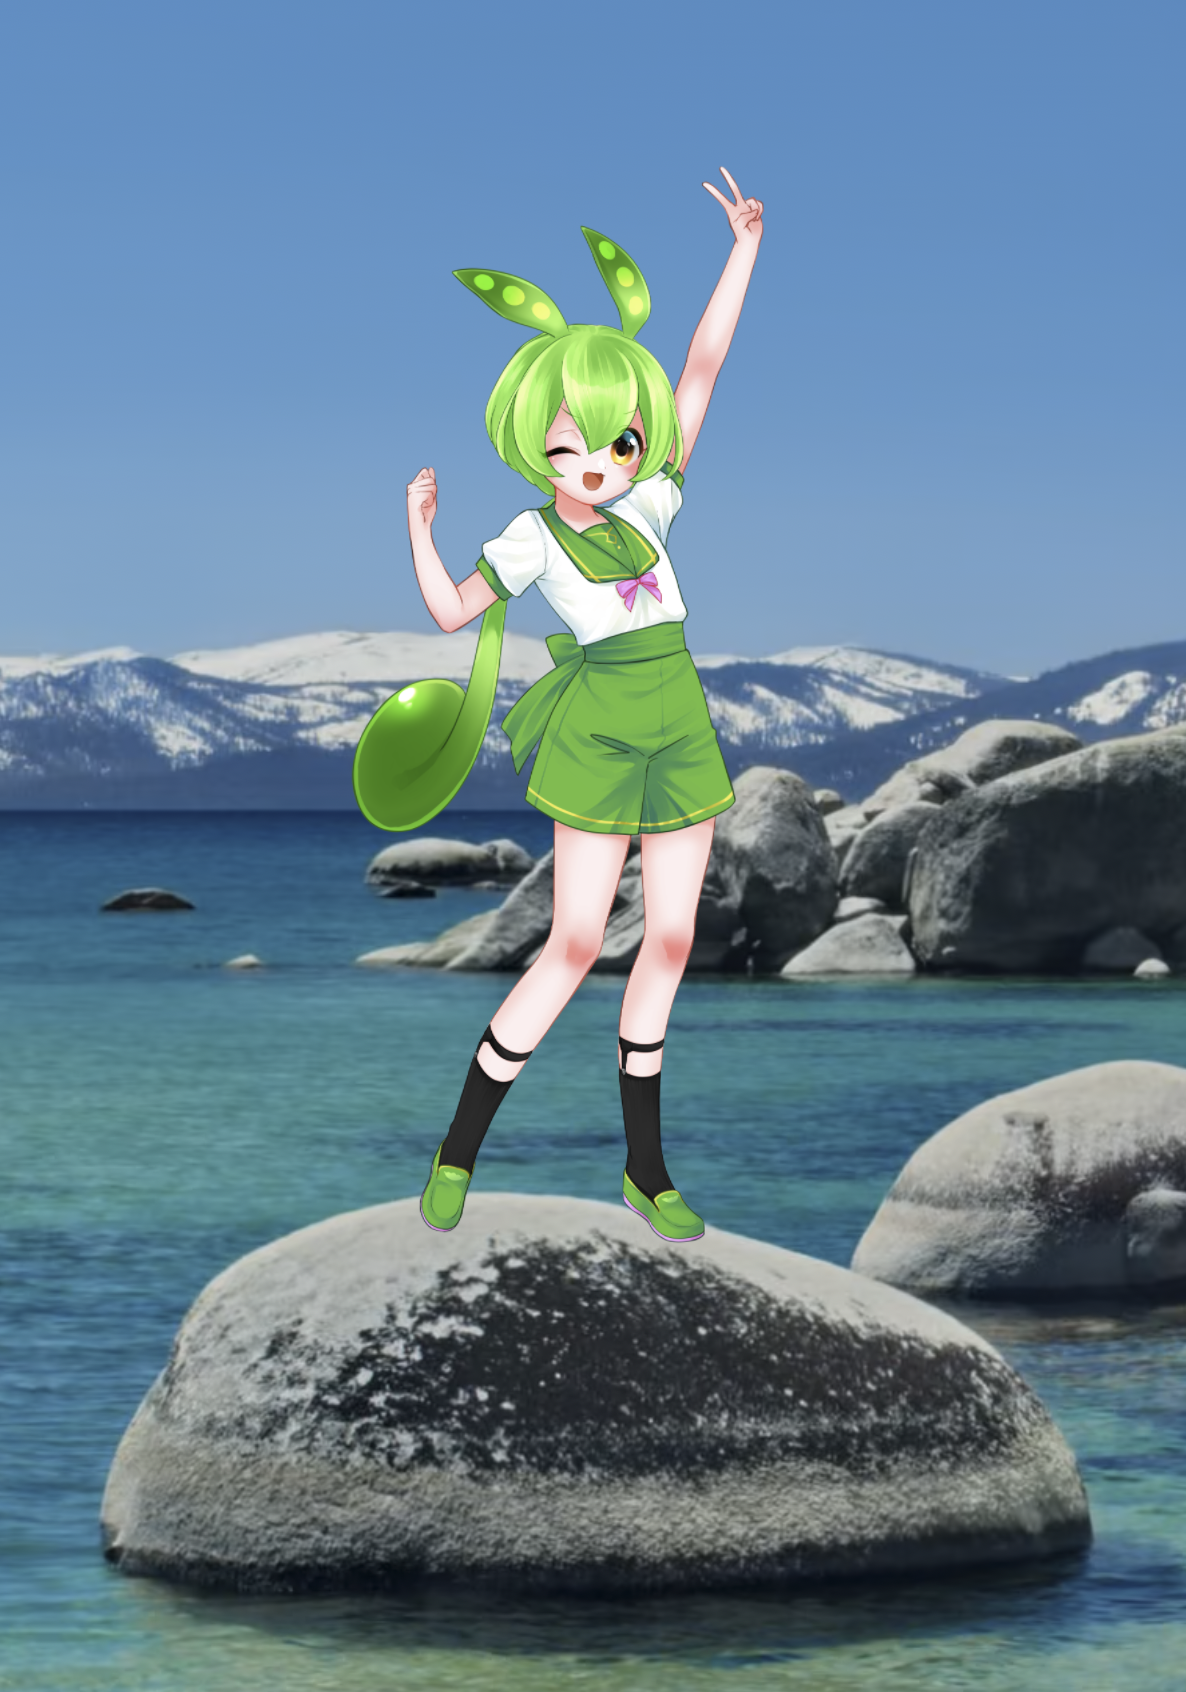
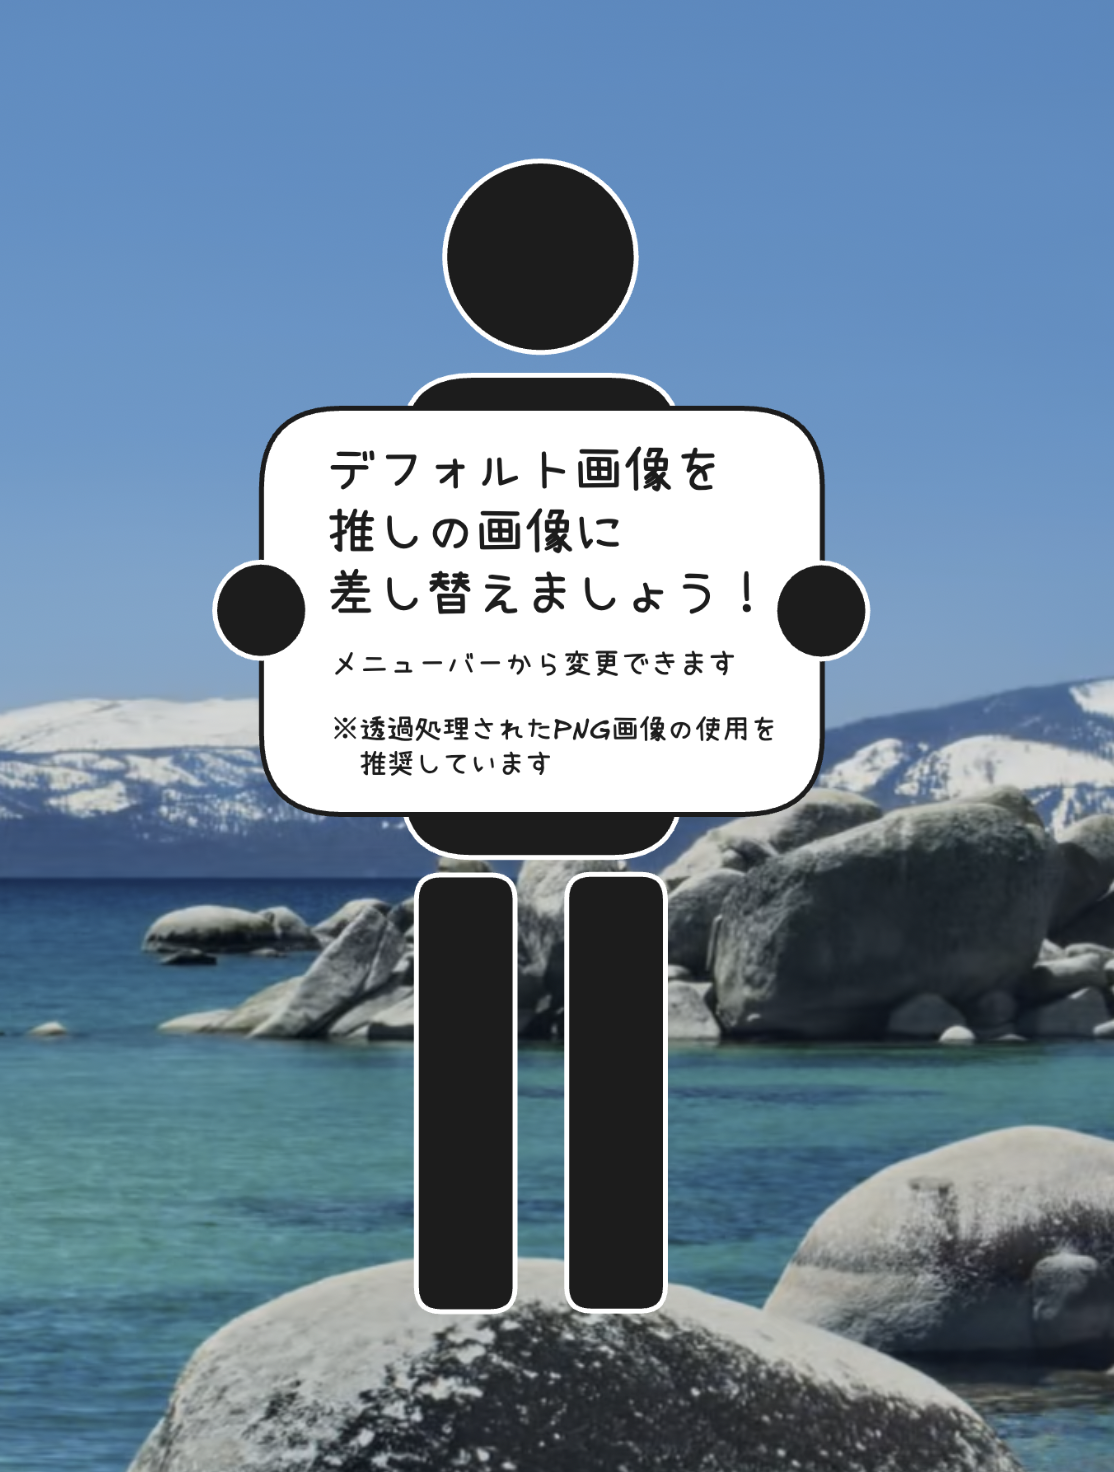
feat: デフォルト画像をシルエットに差し替え、スクリーンショットを更新
デフォルト画像をずんだもんからシルエット画像に変更し、
スクリーンショット3枚（デスクトップ表示・コンテキストメニュー・メニューバー）を更新。
READMEからずんだもん関連の記述を削除。

diff --git a/README.md b/README.md
@@ -9,6 +9,7 @@
 <p align="center">
   <img src="docs/screenshots/sobani-desktop.png" alt="デスクトップ表示" height="300">
   <img src="docs/screenshots/sobani-context-menu.png" alt="コンテキストメニュー" height="300">
+  <img src="docs/screenshots/sobani-menubar.png" alt="メニューバー" height="300">
 </p>
 
 ## 機能
@@ -68,7 +69,7 @@ brew upgrade --cask sobani
 ### はじめて起動する
 
 1. `Sobani.app` をダブルクリックで起動します
-2. デフォルトのずんだもん画像が画面中央に表示されます（前回終了時のウィンドウ状態が保存されている場合は、その位置・サイズ・画像で復元されます）
+2. デフォルトのプレースホルダー画像が画面中央に表示されます（前回終了時のウィンドウ状態が保存されている場合は、その位置・サイズ・画像で復元されます）
 3. メニューバーにアイコン（👤）が表示されます
 4. ウィンドウは常に最前面に表示され、すべての仮想デスクトップで表示されます
 
@@ -290,17 +291,6 @@ brew install swiftlint
 
 ビルドスクリプト（`./build.sh`）実行時に自動でリントチェックが行われます。Xcode でのビルド時にも Build Phase として実行されます。SwiftLint が未インストールの場合は警告を表示し、ビルドは続行します。
 
-## ずんだもんについて
-
-本アプリケーションのデフォルト画像には、**ずんだもん**の公式素材を使用しています。
-
-ずんだもんは**東北ずん子プロジェクト（SSS合同会社）**のキャラクターです。
-
-- [ずんだもんプロジェクト公式サイト](https://zunko.jp/)
-- [キャラクター利用ガイドライン](https://zunko.jp/guideline.html)
-
 ## ライセンス
 
 本プロジェクトのソースコードは [MIT License](LICENSE) のもとで公開されています。
-
-ただし、ずんだもんの画像素材はキャラクター利用ガイドラインに従います。詳しくは[ガイドライン](https://zunko.jp/guideline.html)をご確認ください。
